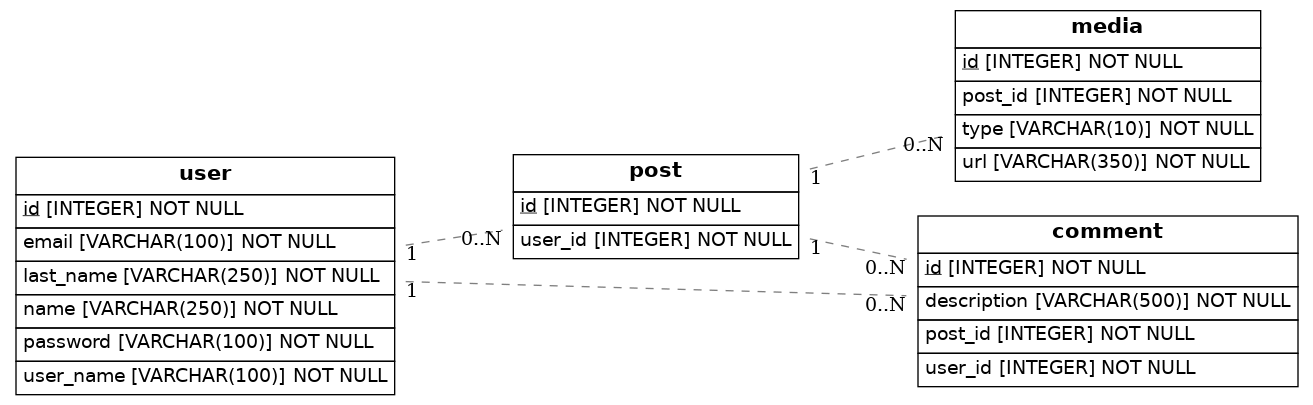
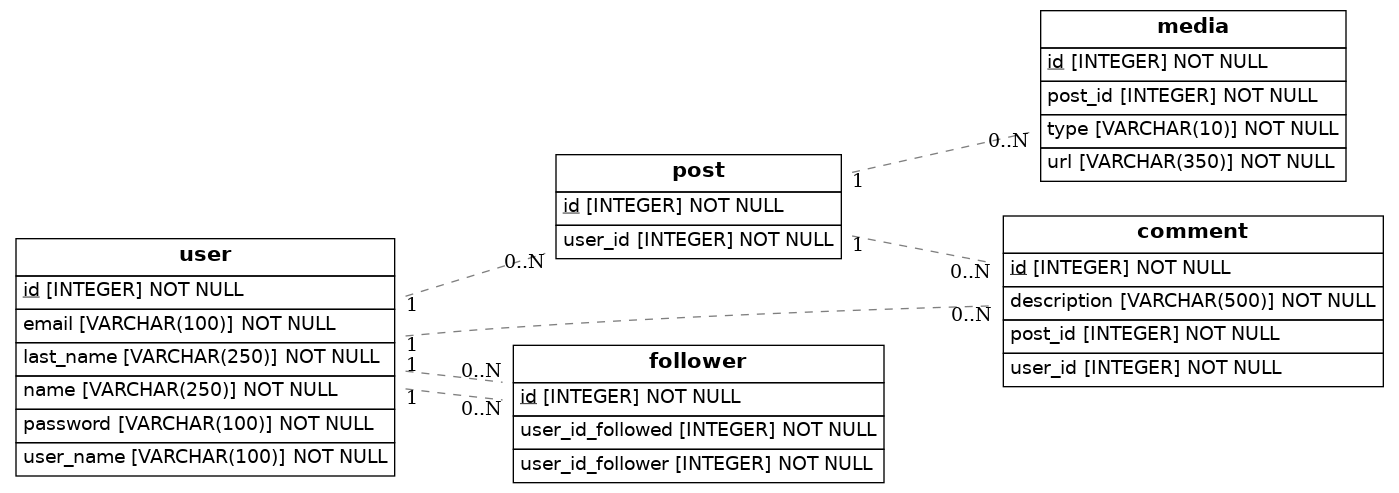
Instagram Data modeling finished

diff --git a/src/models.py b/src/models.py
@@ -51,6 +51,15 @@ class Comment(Base):
     post_id = Column(Integer, ForeignKey('post.id'), nullable=False)
     post = relationship(Post)
 
+class Follower(Base):
+    __tablename__ = 'follower'
+
+    id = Column(Integer, primary_key=True)
+    user_id_follower = Column(Integer, ForeignKey('user.id'), nullable=False)
+    user_of_follower = relationship(User)
+    user_id_followed = Column(Integer, ForeignKey('user.id'), nullable=False)
+    user_of_followed = relationship(User)
+
 
 
 # class Address(Base):
